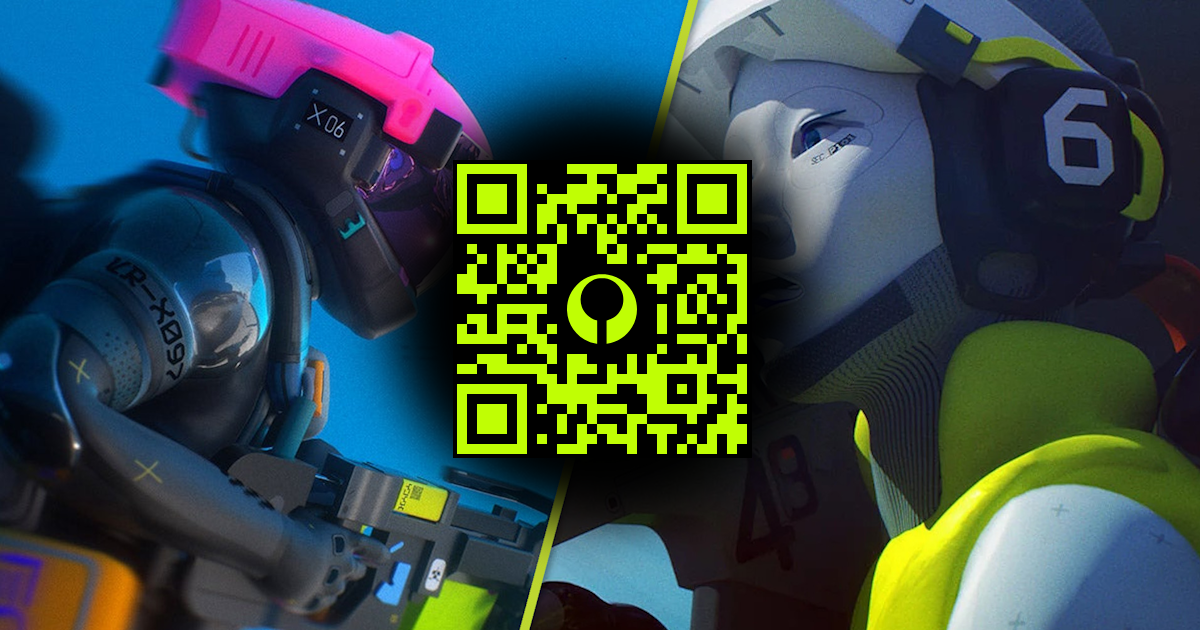
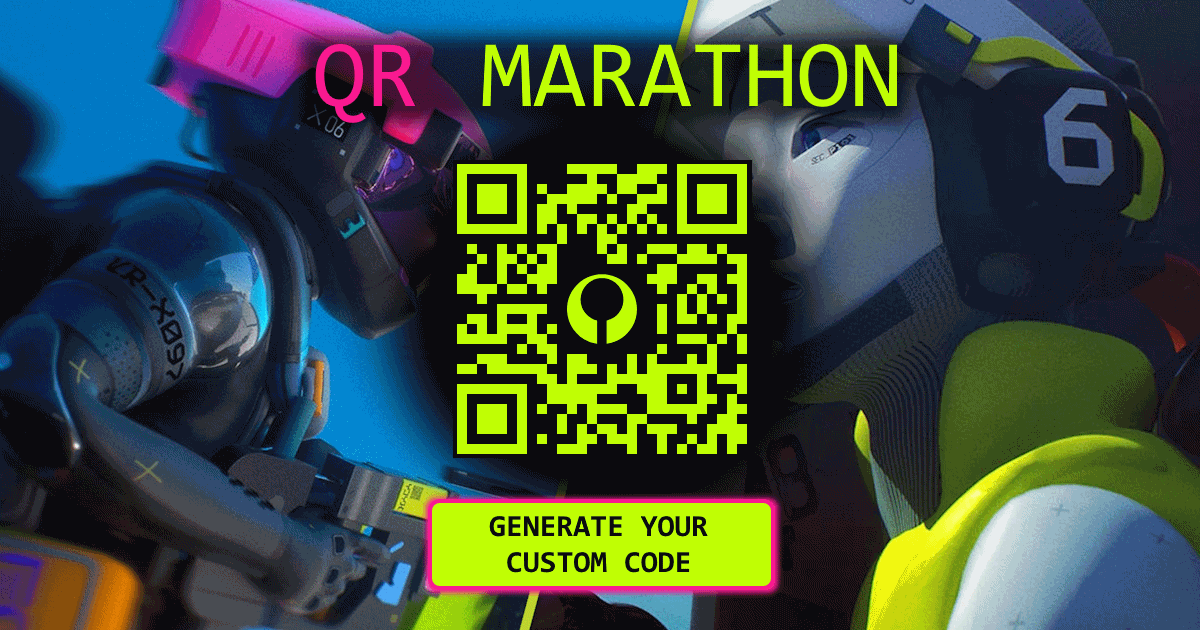
Better title and OG image

Changed region(s): [[0.2158, 0.0302, 0.7708, 0.2111], [0.3392, 0.7841, 0.6783, 0.9651], [0.7092, 0.9651, 0.74, 0.9952]]

diff --git a/src/routes/+layout.svelte b/src/routes/+layout.svelte
@@ -9,7 +9,7 @@
 
 <svelte:head>
 	<link rel="icon" href={favicon} />
-	<title>QR Marathon</title>
+	<title>QR Marathon | Neon Marathon-Inspired QR Code Generator</title>
 
 	<meta
 		name="description"
@@ -18,7 +18,7 @@
 
 	<meta property="og:type" content="website" />
 	<meta property="og:url" content="{PUBLIC_SITE_URL}/" />
-	<meta property="og:title" content="QR Marathon" />
+	<meta property="og:title" content="QR Marathon | Neon Marathon-Inspired QR Code Generator" />
 	<meta
 		property="og:description"
 		content="A QR code generator themed around the Marathon game. Create customizable QR codes with faction logos and neon colors, inspired by the game's aesthetic."
@@ -29,7 +29,7 @@
 
 	<meta property="twitter:card" content="summary_large_image" />
 	<meta property="twitter:url" content="{PUBLIC_SITE_URL}/" />
-	<meta property="twitter:title" content="QR Marathon" />
+	<meta property="twitter:title" content="QR Marathon | Neon Marathon-Inspired QR Code Generator" />
 	<meta
 		property="twitter:description"
 		content="A QR code generator themed around the Marathon game. Create customizable QR codes with faction logos and neon colors, inspired by the game's aesthetic."
